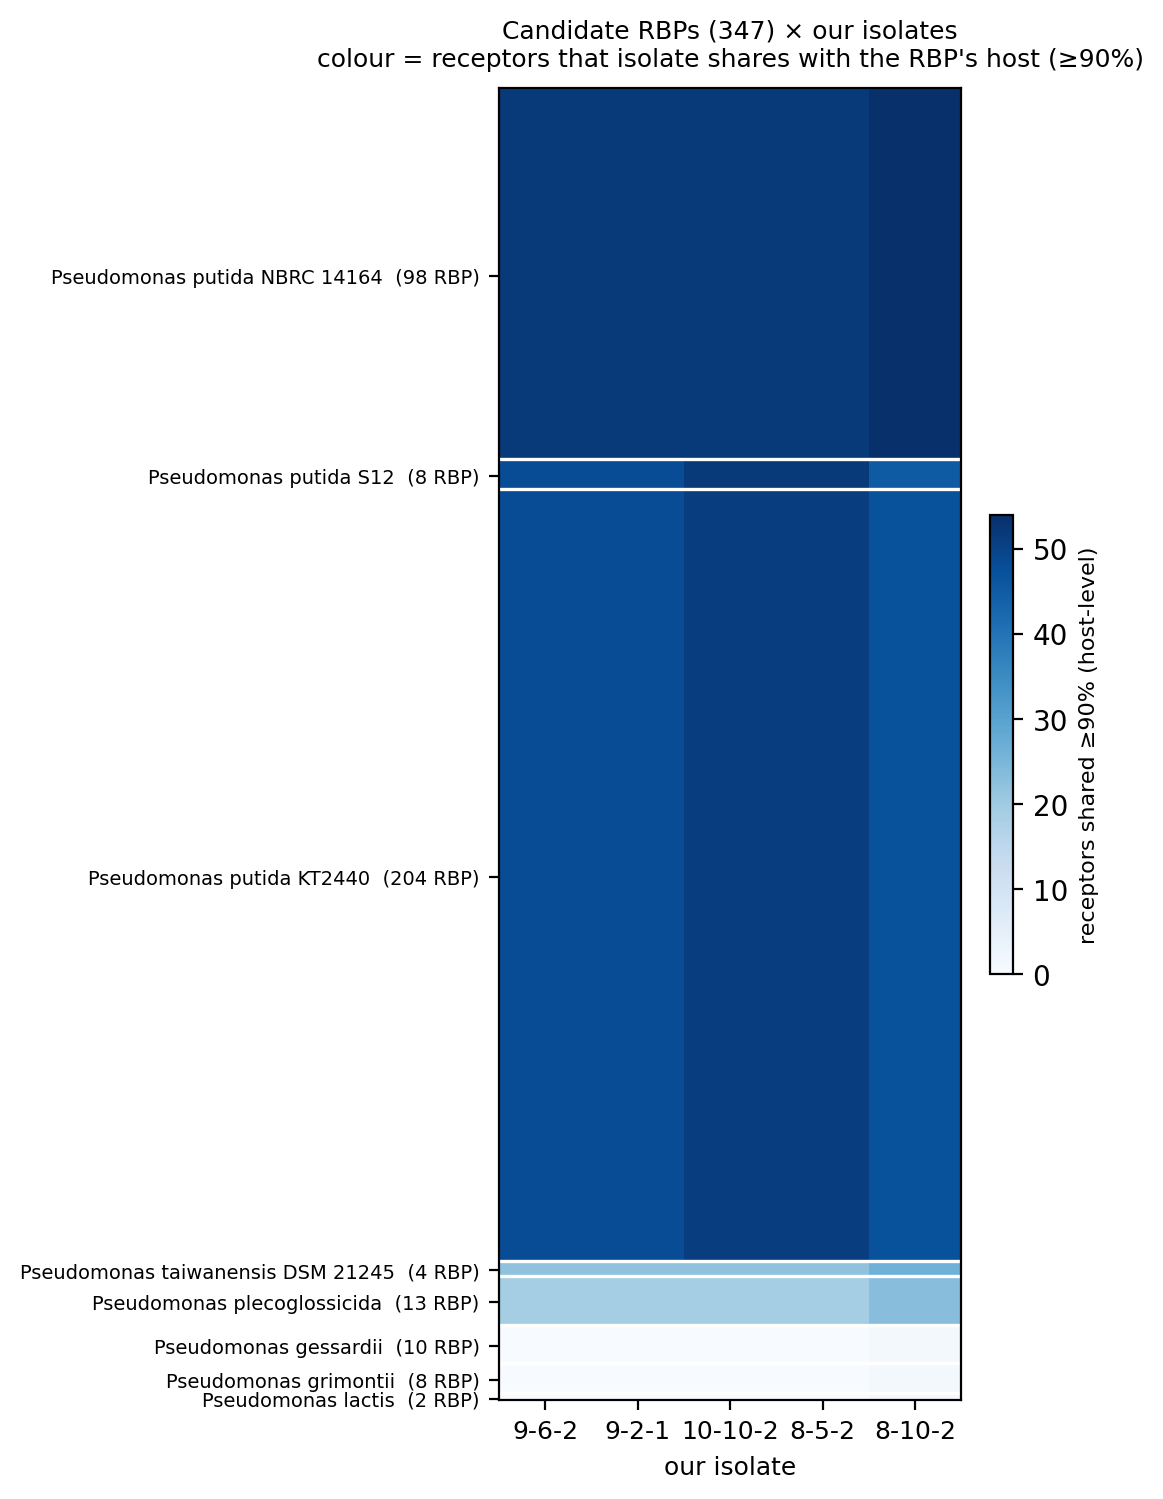
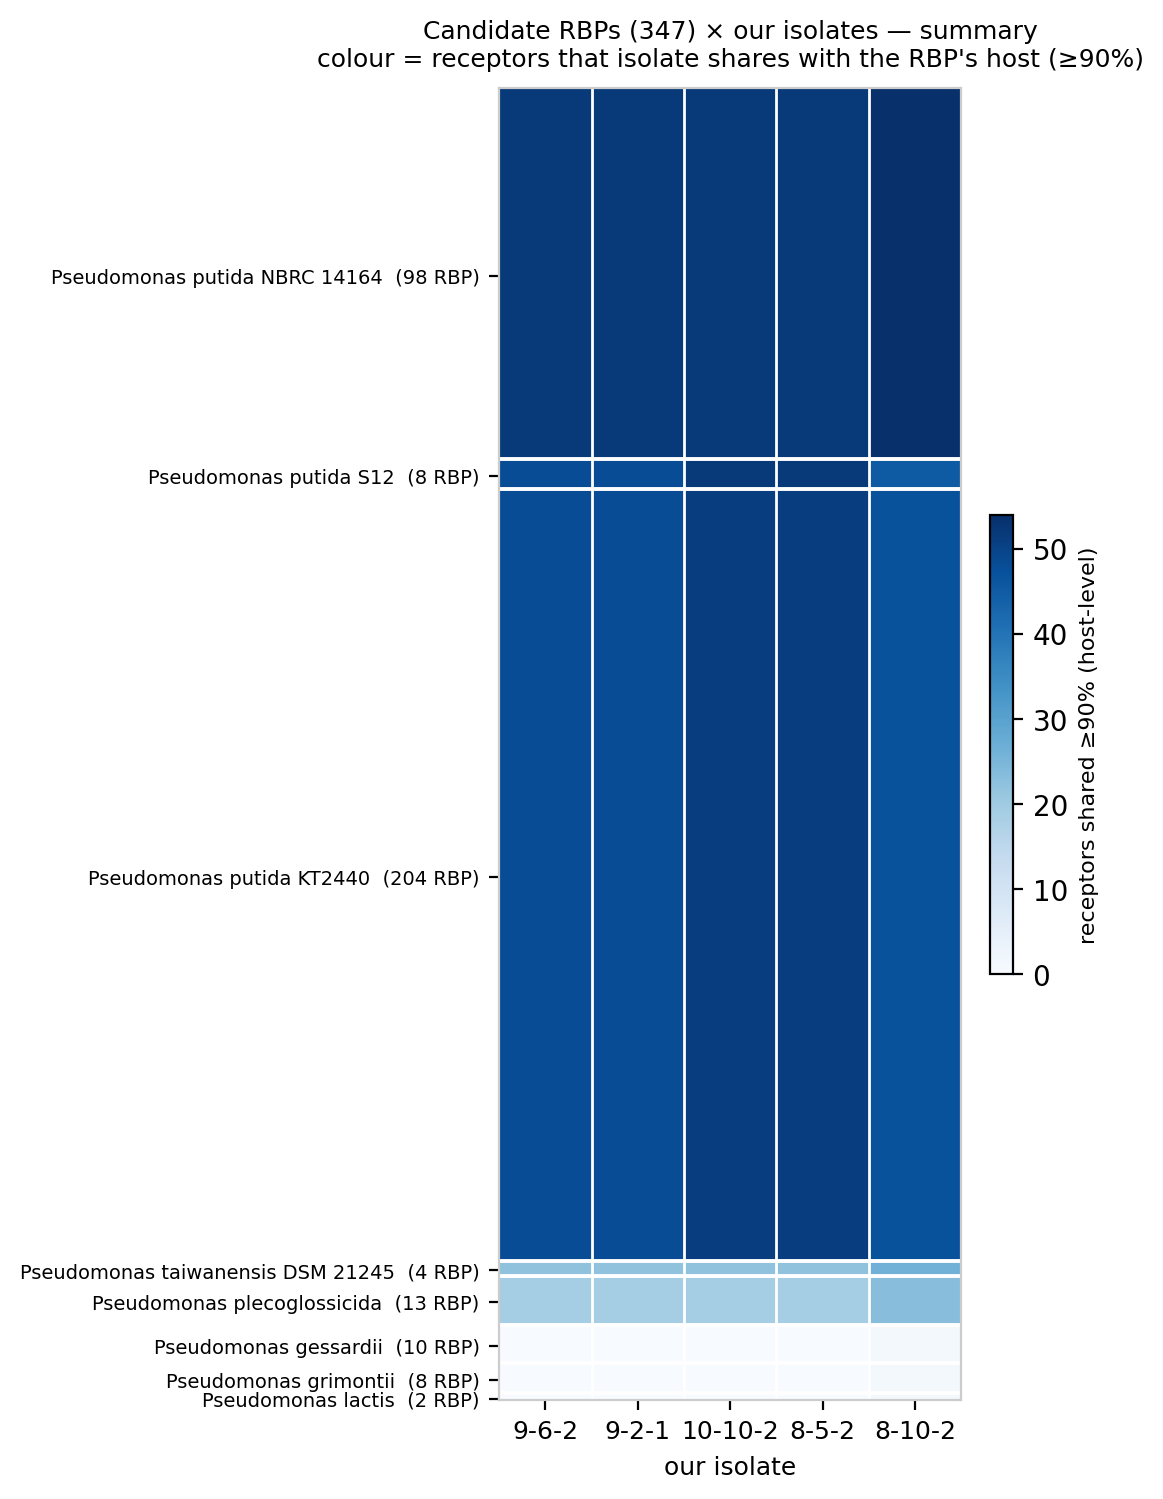
viz(0703): RBP x our-strain — clean separators + detailed per-RBP version
Summary now has white separators between every column and host band; add a per-RBP
detailed heatmap (347 rows, labelled by protein_id|phage|type, red host separators).

diff --git a/code/0703_phage_host_matrix/step5_rbp_table_and_view.py b/code/0703_phage_host_matrix/step5_rbp_table_and_view.py
@@ -89,36 +89,70 @@ def main():
         w.writeheader()
         w.writerows(rbps)
 
-    # ---- rough RBP x strain heatmap (rows grouped by host) ----
+    # rows sorted so hosts form contiguous bands, most-shared host first
     order = sorted(rbps, key=lambda r: (-max((r[f"shared_{s}"] or 0) for s in STRAINS),
                                         r["organism"], r["phage"]))
     M = np.array([[(r[f"shared_{s}"] or 0) for s in STRAINS] for r in order], dtype=float)
-    # host band boundaries + labels
-    labels, bounds, prev, start = [], [], None, 0
     orgs = [r["organism"] or r["host"] for r in order]
+    # host band boundaries + centred labels
+    labels, bounds, prev, start = [], [], None, 0
     for i, o in enumerate(orgs + [None]):
         if o != prev and prev is not None:
             bounds.append(i)
             labels.append((prev, (start + i) / 2, i - start))
             start = i
         prev = o
+    vmax = M.max()
 
+    def sep_lines(ax, nrows):
+        # clean white separators between every column, and between host bands
+        for x in range(1, len(STRAINS)):
+            ax.axvline(x - 0.5, color="white", lw=1.0)
+        for b in bounds[:-1]:
+            ax.axhline(b - 0.5, color="white", lw=1.4)
+        for sp in ax.spines.values():
+            sp.set_visible(True); sp.set_edgecolor("#cccccc")
+
+    # ---- (1) SUMMARY: host-grouped bands, clean separators ----
     fig, ax = plt.subplots(figsize=(5.6, max(6, 0.022 * len(order))))
-    im = ax.imshow(M, aspect="auto", cmap="Blues", vmin=0)
-    ax.set_xticks(range(len(STRAINS)))
-    ax.set_xticklabels(STRAINS, fontsize=9)
+    im = ax.imshow(M, aspect="auto", cmap="Blues", vmin=0, vmax=vmax)
+    ax.set_xticks(range(len(STRAINS))); ax.set_xticklabels(STRAINS, fontsize=9)
     ax.set_xlabel("our isolate", fontsize=9)
     ax.set_yticks([mid for _, mid, _ in labels])
     ax.set_yticklabels([f"{name}  ({n} RBP)" for name, _, n in labels], fontsize=7)
-    for b in bounds[:-1]:
-        ax.axhline(b - 0.5, color="white", lw=1.2)
+    sep_lines(ax, len(order))
     cbar = fig.colorbar(im, ax=ax, shrink=0.35)
     cbar.set_label("receptors shared ≥90% (host-level)", fontsize=8)
-    ax.set_title(f"Candidate RBPs ({len(order)}) × our isolates\n"
+    ax.set_title(f"Candidate RBPs ({len(order)}) × our isolates — summary\n"
                  "colour = receptors that isolate shares with the RBP's host (≥90%)",
                  fontsize=9, pad=8)
     plt.tight_layout()
     fig.savefig(os.path.join(OUT, "rbp_by_strain_heatmap.png"), dpi=200, bbox_inches="tight")
+    plt.close(fig)
+
+    # ---- (2) DETAILED: one row per RBP, labelled by RBP id, clean cell borders ----
+    n = len(order)
+    fig, ax = plt.subplots(figsize=(6.0, max(8, 0.115 * n)))
+    im = ax.imshow(M, aspect="auto", cmap="Blues", vmin=0, vmax=vmax)
+    ax.set_xticks(range(len(STRAINS))); ax.set_xticklabels(STRAINS, fontsize=9)
+    ax.set_xlabel("our isolate", fontsize=9)
+    ax.set_yticks(range(n))
+    ax.set_yticklabels([f"{r['protein_id'][:8]}  {r['phage'][:26]}  [{r['rbp_type']}]"
+                        for r in order], fontsize=3.2)
+    # thin border on every cell
+    ax.set_xticks(np.arange(-0.5, len(STRAINS), 1), minor=True)
+    ax.set_yticks(np.arange(-0.5, n, 1), minor=True)
+    ax.grid(which="minor", color="white", lw=0.3)
+    ax.tick_params(which="minor", length=0)
+    for b in bounds[:-1]:
+        ax.axhline(b - 0.5, color="#d33", lw=0.8)  # red host separators
+    cbar = fig.colorbar(im, ax=ax, shrink=0.2)
+    cbar.set_label("receptors shared ≥90%", fontsize=7)
+    ax.set_title(f"Candidate RBPs (per RBP, n={n}) × our isolates — detailed\n"
+                 "red lines separate hosts; label = protein_id | phage | type", fontsize=8, pad=8)
+    plt.tight_layout()
+    fig.savefig(os.path.join(OUT, "rbp_by_strain_detailed.png"), dpi=180, bbox_inches="tight")
+    plt.close(fig)
 
     nseq = len(seen_seq)
     print(f"{len(rbps)} candidate RBPs | {nseq} unique sequences")
